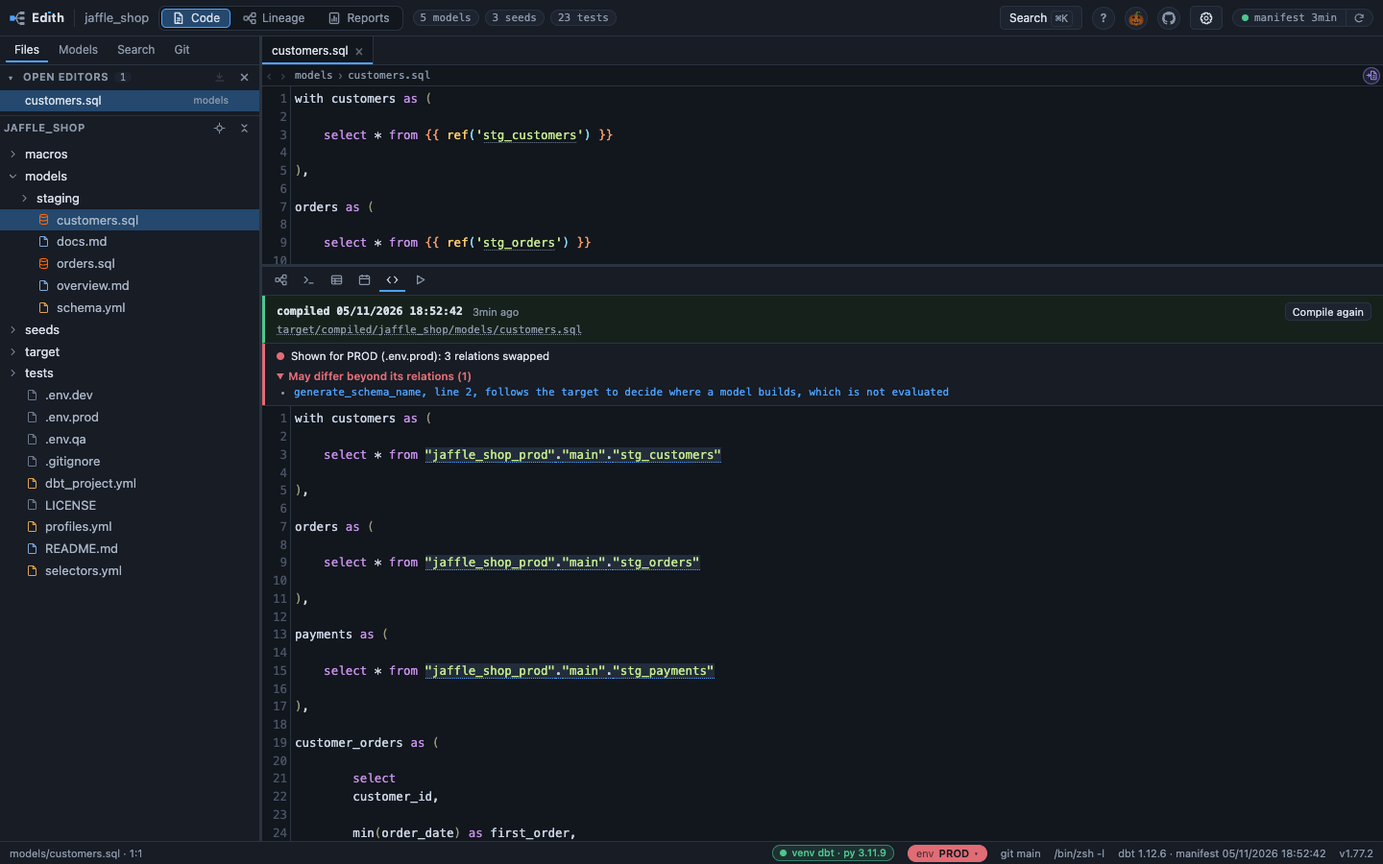
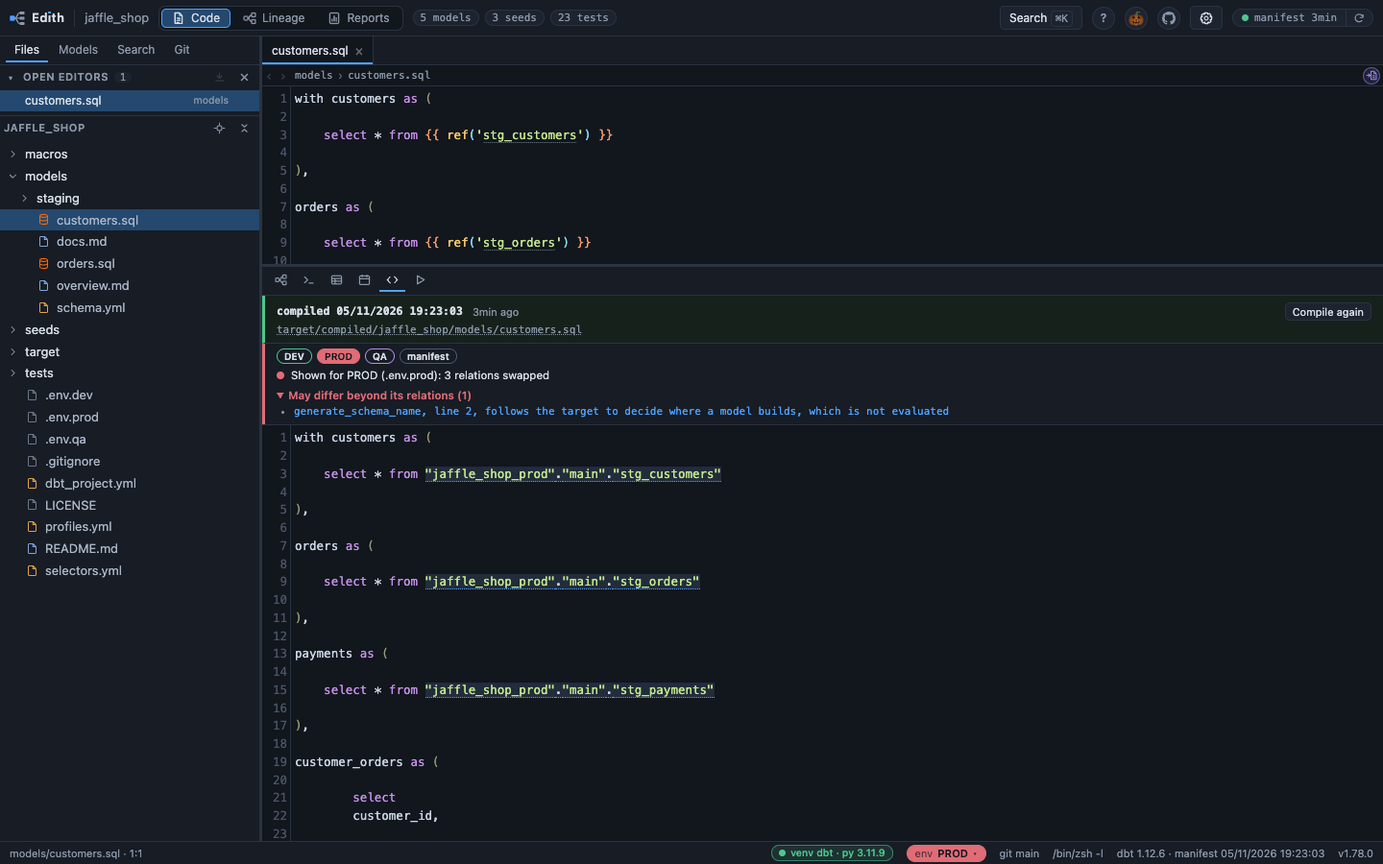
Offer every environment on the Compiled tab (#163)
The top of the Compiled and Run tabs now offers every environment as a
button, with a file picked or with none, and a click sets the one shared
choice the status bar and the Catalog already follow.
[0147](docs/decisions/0147-the-compiled-and-run-tabs-offer-every-environment.md)
records it and amends
[0139](docs/decisions/0139-compiled-sql-is-shown-per-environment-by-swapping-its-relations.md)
and
[0142](docs/decisions/0142-the-status-bars-env-pill-opens-the-environment-menu.md).

**What was missing.** The tabs show a model's SQL for the environment
picked in the status bar, but the line that names it only appeared once
a file other than the manifest's own was picked. With none picked (the
manifest, or `my compile` on a sandbox manifest) the tab said nothing
about environments, so nothing on it told a person it could switch.
Comparing the same SQL under QA, UAT and STG meant going to the pill for
each, and back.

## What changes for someone using it

- **A row of buttons at the top of both tabs**, one per environment
  shown, in the order of the menu and the settings, and the manifest's
  own choice (`manifest`, or `my compile`) last. It is drawn with a file
  picked and with none, and only when there is a file to pick: a project
  whose config reads an env var but has no `.env` file, or hides them
  all, sees what it saw before.
- **A click sets the shared choice**: the status bar's pill, the
  Catalog's resolved column, the Builds dots and the other tab follow.
[…]

diff --git a/web/app.js b/web/app.js
@@ -35,6 +35,7 @@ const S = {
   artifactInfo: { compiled: null, run: null },  // the last answer of each, so another environment repaints without a request
   envs: null,                 // payload of /api/envs
   env: '',                    // this tab's chosen .env file, '' for the manifest as parsed
+  artifactRow: '',            // envRowKey() as the Compiled or Run row was last drawn
   node: null,                 // catalog: node currently displayed
   catTab: 'preview',          // catalog: preview | columns
   graphMode: 'model',         // lineage canvas: model | column | select
@@ -8541,8 +8542,9 @@ async function loadArtifact(kind, id) {
 }
 
 /* The Compiled or Run pane from the last answer, as it stands: the file as dbt
-   left it, or, with an environment picked in the status bar, the same SQL with
-   its relations swapped for that file's (0139). Repainted from here when the
+   left it, or, with an environment picked, the same SQL with its relations
+   swapped for that file's (0139). The environments are offered on the pane
+   itself whenever there are any (0147). Repainted from here when the
    environment changes, with no request. */
 function paintArtifact(kind, keepScroll) {
   const held = S.artifactInfo[kind];
@@ -8594,8 +8596,14 @@ function paintArtifact(kind, keepScroll) {
   head.append(bar);
 
   const content = artifactContent(info);
-  const shown = envSql(content, info.relations || [], S.env, (S.meta && S.meta.sandbox) || '');
-  if (S.env) head.append(artifactEnvBar(shown, info.env_reads));
+  const env = activeEnv();
+  const shown = envSql(content, info.relations || [], env, (S.meta && S.meta.sandbox) || '');
+  // Also with none picked: the row is how a person who has not found the status
+  // bar's pill learns the tab can switch (0147).
+  if (envRowShown()) head.append(artifactEnvBar(shown, info.env_reads, env));
+  // What the row was last drawn from, so a reload of the list repaints only for
+  // a change this row has not seen, and keeps the focus a click just restored.
+  S.artifactRow = envRowKey();
 
   // Read while the editor is still attached: emptying the body detaches it, and
   // a detached editor reports no scroll. setValue then scrolls to the top, which
@@ -8619,14 +8627,32 @@ function paintArtifact(kind, keepScroll) {
   return true;
 }
 
-/* The line under the bar naming the environment the SQL is shown for, and the
-   places it may differ beyond its relations. A macro's finding opens the macro
-   at that line, as Cmd+K opens one. */
-function artifactEnvBar(shown, envReads) {
-  const words = artifactEnvWords(shown, envDisplayName(S.env), S.env, envReads);
+/* The environments, one button each, and under them the line naming the one the
+   SQL is shown for and the places it may differ beyond its relations. A button
+   sets the one shared choice, so the status bar, the Catalog and the Builds dots
+   follow (0147). A macro's finding opens the macro at that line, as Cmd+K opens
+   one. */
+function artifactEnvBar(shown, envReads, env) {
   const box = document.createElement('div');
   box.className = 'env-bar';
-  box.dataset.tone = envTone(envDisplayName(S.env));
+  box.dataset.tone = env ? envTone(envDisplayName(env)) : 'manifest';
+  const chips = document.createElement('div');
+  chips.className = 'env-chips';
+  envChoices().forEach((c) => {
+    const b = document.createElement('button');
+    b.type = 'button';
+    b.className = 'envchip' + (c.current ? ' on' : '');
+    b.dataset.tone = c.tone;
+    b.setAttribute('aria-pressed', String(c.current));
+    b.title = c.file ? (c.title || c.sub) : `${c.sub}: ${c.title}`;
+    b.textContent = c.label;
+    b.addEventListener('click', () => { if (!c.current) selectEnv(c.file); });
+    chips.append(b);
+  });
+  box.append(chips);
+  const words = env
+    ? artifactEnvWords(shown, envDisplayName(env), env, envReads)
+    : { head: artifactOwnWords((S.meta && S.meta.sandbox) || ''), findings: [] };
   const line = document.createElement('div');
   line.className = 'env-line';
   line.append(Object.assign(document.createElement('span'), { className: 'envdot' }), words.head);
@@ -12752,10 +12778,12 @@ async function loadEnvs() {
   }
   paintEnvSelect();
   if (S.node) renderCatalog(S.node);
+  // The row on a Compiled or Run tab lists the files shown, which the settings
+  // may have just renamed or hidden (0147). Only then: the settings' Project
+  // section reloads on every opening, and a repaint would drop the text selected
+  // in the SQL and a find's cursor for nothing.
+  if (envRowKey() !== S.artifactRow) repaintArtifacts();
 }
-
-/* True when switching environment can change something on screen. */
-const envsInUse = () => !!(S.envs && S.envs.referenced.length);
 
 function paintEnvSelect() {
   const pill = $('#status-env');
@@ -12782,14 +12810,27 @@ function fillEnvPill(el, prefix) {
   el.title = `${now} Click to pick an environment.`;
 }
 
+/* The visible Compiled or Run tab again from the answer it holds, with no request. */
+function repaintArtifacts() {
+  ['compiled', 'run'].forEach((kind) => { if (!$('#dock-' + kind).classList.contains('hidden')) paintArtifact(kind, true); });
+}
+
 function selectEnv(file) {
+  // A click on a chip of the Compiled or Run pane rebuilds the row it was made
+  // in, so the keyboard would lose its place without this (0147).
+  const held = document.activeElement && document.activeElement.closest
+    ? document.activeElement.closest('#compiled-head, #run-head') : null;
+  const heldIn = held && document.activeElement.classList.contains('envchip') ? held.id : '';
   S.env = file;
   paintEnvSelect();
   if (S.node) renderCatalog(S.node);
   // The dots follow the environment, painted over the canvas as it stands (0117).
   paintLineageBuilds();
-  // So does the SQL of the visible Compiled or Run tab, from the answer it holds (0139).
-  ['compiled', 'run'].forEach((kind) => { if (!$('#dock-' + kind).classList.contains('hidden')) paintArtifact(kind, true); });
+  // So does the SQL of the visible Compiled or Run tab, from the answer it holds
+  // (0139), and the buttons on it (0147).
+  repaintArtifacts();
+  const back = heldIn && $('#' + heldIn + ' .envchip.on');
+  if (back) back.focus();
   // Remembered as the starting point for the next tab; failure is harmless.
   api.send('/api/envs/select', 'POST', { file: file || null }).catch(() => {});
 }
@@ -13444,6 +13485,36 @@ function artifactEnvWords(result, envName, file, envReads) {
   };
 }
 
+/* The line under the buttons when no .env file is picked: nothing is swapped,
+   so it says whose placement the SQL carries. On a sandbox manifest that is the
+   developer's own compile, named as the menu names it (0143). */
+function artifactOwnWords(sandbox) {
+  return sandbox
+    ? `Shown as dbt wrote it, into ${sandbox}`
+    : 'Shown as dbt compiled it for the manifest\'s target';
+}
+
+/* True when switching environment can change something on screen. */
+function envsInUse() { return !!(S.envs && S.envs.referenced.length); }
+
+/* The choice in effect: a stored one outlives the environments in use (the list
+   failed to load, or no config reads an env var any more), and then nothing
+   could name the file, so the tab, the Catalog's location and the Builds dots
+   all fall back to the manifest's own. */
+function activeEnv() { return envsInUse() ? S.env : ''; }
+
+/* The row of buttons on the Compiled and Run tabs is drawn when there is a file
+   to pick: a project that reads env_var with a default and has no .env file, or
+   hides them all, has nothing to offer (0147). */
+function envRowShown() { return envsInUse() && S.envs.files.some((f) => !f.hidden); }
+
+/* What the row of buttons and the swap are drawn from, to tell a reload that
+   changed them from one that did not. */
+function envRowKey() {
+  return JSON.stringify([!!S.envs, envsInUse(), envRowShown(), activeEnv(),
+    S.envs ? S.envs.files.map((f) => [f.file, f.name, !!f.hidden, !!f.target_mismatch, f.target]) : []]);
+}
+
 /* The last build of each model per environment is read on a click from the
    tables of the dbt_artifacts package (0117). The pure part runs from here to
    catalogLocation, which web/tests/builds.js slices with the location code
@@ -13989,7 +14060,8 @@ function jobBuildVerdicts(job, got, clock, staleDays, now, worst) {
 function catalogLocation(body, n) {
   // A chosen file this node was not resolved against (none discovered at the
   // time, or the file was removed) quietly falls back to manifest mode.
-  const file = S.env && n.location && n.location.envs && n.location.envs[S.env] ? S.env : '';
+  const chosen = activeEnv();
+  const file = chosen && n.location && n.location.envs && n.location.envs[chosen] ? chosen : '';
   const envName = file ? envDisplayName(file) : '';
   const rows = locationRows(n.location, file);
   if (!rows.length) return;
@@ -15041,7 +15113,7 @@ function repaintBuilds() {
 /* What the canvas paints for the environment this tab picked, or nothing. */
 function buildsSpec() {
   if (!S.builds || !(S.features && S.features.snowflake)) return null;
-  return buildsDots(S.builds, S.env, buildsStaleDays(), buildsEnvName(S.env), Date.now());
+  return buildsDots(S.builds, activeEnv(), buildsStaleDays(), buildsEnvName(activeEnv()), Date.now());
 }
 
 function paintLineageBuilds() {

diff --git a/web/tests/compiledenv.js b/web/tests/compiledenv.js
@@ -181,6 +181,48 @@ check('a placing macro that reads the target through another says which, with no
     macro: { file: 'macros/g.sql', name: 'generate_schema_name', line: 1 } });
 check('the list is introduced once', reads.differ, 'May differ beyond its relations (6)');
 
+print('\n--- no file picked ---');
+check('a sandbox manifest says where the SQL was written', artifactOwnWords('dev_db.dbt_someone'),
+  'Shown as dbt wrote it, into dev_db.dbt_someone');
+check('a manifest with no sandbox says whose target it is', artifactOwnWords(''),
+  'Shown as dbt compiled it for the manifest\'s target');
+
+print('\n--- the row of buttons ---');
+// S is the page's state; only what the row's helpers read is here.
+var S = { envs: null, env: '' };
+function envList(files, referenced) {
+  return { referenced: referenced === undefined ? [{ var: 'DBT_DB', nodes: 3 }] : referenced,
+    files: files.map(function (f) { return { file: f[0], name: f[1], hidden: !!f[2], target_mismatch: false, target: '' }; }) };
+}
+var listed = [['.env.qa', 'QA'], ['.env.uat', 'UAT']];
+S.envs = envList(listed);
+check('a file to pick draws the row', envRowShown(), true);
+var keyed = envRowKey();
+S.envs = envList(listed);
+check('the same list again keeps the key', envRowKey(), keyed);
+S.envs = envList([['.env.qa', 'Quality'], ['.env.uat', 'UAT']]);
+check('a rename changes it', envRowKey() !== keyed, true);
+S.envs = envList([['.env.qa', 'QA', true], ['.env.uat', 'UAT']]);
+check('so does hiding a file', envRowKey() !== keyed, true);
+S.envs = envList([['.env.qa', 'QA', true], ['.env.uat', 'UAT', true]]);
+check('every file hidden draws no row', envRowShown(), false);
+S.envs = envList([]);
+check('and no file at all draws none', envRowShown(), false);
+S.envs = envList(listed, []);
+check('nor does a project no env var is read by', envRowShown(), false);
+S.envs = null;
+check('nor a list that failed to load', envRowShown(), false);
+
+print('\n--- a stored choice that the list no longer backs ---');
+S.env = '.env.qa';
+S.envs = envList(listed);
+check('is the choice while environments are in use', activeEnv(), '.env.qa');
+S.envs = null;
+check('falls back to the manifest when the list failed to load', activeEnv(), '');
+S.envs = envList(listed, []);
+check('and when no config reads an env var any more', activeEnv(), '');
+S.env = '';
+
 print('\n--- a file dbt wrote on Windows ---');
 var crlf = artifactContent({ content: 'select 1\r\nfrom x\r\n\r\nfrom raw.crm.orders o\r\n', truncated: false });
 check('breaks are one character each', crlf, 'select 1\nfrom x\n\nfrom raw.crm.orders o\n');

diff --git a/web/app.css b/web/app.css
@@ -77,6 +77,19 @@ kbd {
 .envpill-k { font-weight: 400; opacity: .7; }
 .envpill-caret { font-size: 9px; opacity: .75; }
 .envpill.sm { font-size: 10px; line-height: 14px; padding: 0 7px; margin-left: 6px; vertical-align: 1px; letter-spacing: 0; }
+/* The environments on the Compiled and Run tabs (0147): outlined when off,
+   filled like the pill when it is the one in use. */
+.env-chips { display: flex; flex-wrap: wrap; gap: 5px; margin-bottom: 4px; }
+.envchip {
+  font: 600 10px/14px var(--ui); color: var(--fg); background: transparent;
+  border: 1px solid var(--tone); border-radius: 9px; padding: 0 7px; cursor: pointer;
+}
+.envchip.on { color: #10151c; background: var(--tone); }
+.envchip[data-tone=manifest] { border-color: #4a5870; }
+.envchip[data-tone=manifest].on { color: #fff; background: #4a5870; border-color: #6f7f93; }
+.envchip:hover { filter: brightness(1.15); }
+.envchip.on { cursor: default; filter: none; }
+.envchip:focus-visible { outline: 2px solid var(--accent); outline-offset: 1px; }
 .envmenu {
   position: fixed; z-index: 65; min-width: 230px; max-width: 380px; padding: 4px;
   background: var(--bg-2); border: 1px solid #3a475a; border-radius: 6px;

diff --git a/docs/decisions/0147-the-compiled-and-run-tabs-offer-every-environment.md b/docs/decisions/0147-the-compiled-and-run-tabs-offer-every-environment.md
@@ -1,0 +1,52 @@
+# 0147. The Compiled and Run tabs offer every environment
+
+Date: 2026-11-05 · Status: accepted · Amends 0139, 0142
+
+**Trigger:** read before changing what the top of the Compiled or Run tab
+shows when environments exist, how an environment is picked from it, or what it
+says with no `.env` file picked.
+
+## Context
+
+The tabs show a model's SQL for the environment picked in the status bar (0139,
+0142). With none picked, which is the manifest, or `my compile` on a sandbox
+manifest (0143), the tab said nothing about environments, so nothing on it told
+a person that it could switch. Comparing QA, UAT and STG on one SQL meant going
+to the status bar's pill for each, and back. 0139 had rejected a picker of its
+own on the tab because it put two environments on screen, the tab's and the
+Catalog's. A picker that sets the one shared choice does not.
+
+## Decision
+
+- **The tabs offer every environment as a button**, on a row at the top, whenever
+  there is a file to pick, which is when the project's config reads an env var
+  and at least one `.env` file is shown: the files shown, in the order of the
+  menu and the settings, and the manifest's own choice (`manifest`, or `my
+  compile`) last. It is drawn with a file picked and with none, and not at all
+  when there is nothing to pick, so a project with no `.env` file sees what it
+  saw before.
+- **A button sets the one shared choice**, as the menu does: the status bar's
+  pill, the Catalog's resolved column, the Builds dots and the other tab follow.
+  The button of the choice in use is filled in its colour and pressed; a click
+  on it does nothing. The keyboard keeps its place across the repaint.
+- **Under the row, one line says what is shown.** For a file it is the line
+  0139 has, `Shown for QA (.env.qa): 2 relations swapped`, with the findings
+  folded under it. With none picked it says whose placement the SQL carries
+  (`Shown as dbt wrote it, into <sandbox>`, or `Shown as dbt compiled it for the
+  manifest's target`), and has no findings, since nothing is swapped.
+
+## Rejected
+
+- **A pill and a menu on the tab**: two clicks for a gesture repeated while
+  comparing, where one button per environment is one click and shows all that
+  can be picked.
+- **A choice local to the tab**: 0139's reason, two environments on screen and
+  the Catalog saying another.
+- **A row only when a file is picked**: the case where a person most needs to
+  learn that the tab can switch.
+
+## Consequences
+
+The status bar's pill and its menu stay as they are (0142). A script that waits
+on the `Shown for` line still finds it with a file picked; with none, the row
+of buttons is there and the line starts `Shown as`.

diff --git a/AGENTS.md b/AGENTS.md
@@ -262,7 +262,7 @@ frontend fix does not exist in a release binary until it is rebuilt (see 0005).
 | print a location derived from a `.env` file on the command line or over MCP, or change the card's per-file lines | [0113](docs/decisions/0113-the-card-resolves-a-location-per-env-file.md), [0012](docs/decisions/0012-secrets-and-boundaries.md), [0090](docs/decisions/0090-a-credential-is-hidden-by-its-value-as-well-as-its-name.md) |
 | change the agent skill or its MCP variant, what `--skill` prints, or let the binary write anything for an agent client | [0114](docs/decisions/0114-a-skill-is-shipped-and-printed-never-installed.md), [0136](docs/decisions/0136-a-client-that-defers-tools-gets-its-own-printed-skill.md), [0110](docs/decisions/0110-an-agent-may-ask-over-mcp-through-one-tool.md) |
 | write SQL for the user to run, change what a clone copies or where it lands, or read anything else out of the profile | [0058](docs/decisions/0058-a-model-is-cloned-into-your-schema-by-statements-you-run.md) |
-| change what the Compiled or Run tab shows for an environment, what `/api/compiled` carries, or what the page says the SQL may differ in | [0139](docs/decisions/0139-compiled-sql-is-shown-per-environment-by-swapping-its-relations.md), [0143](docs/decisions/0143-a-sandbox-manifests-relations-are-swapped-where-the-file-places-them.md), [0113](docs/decisions/0113-the-card-resolves-a-location-per-env-file.md), [0058](docs/decisions/0058-a-model-is-cloned-into-your-schema-by-statements-you-run.md) |
+| change what the Compiled or Run tab shows for an environment, what `/api/compiled` carries, or what the page says the SQL may differ in | [0139](docs/decisions/0139-compiled-sql-is-shown-per-environment-by-swapping-its-relations.md), [0143](docs/decisions/0143-a-sandbox-manifests-relations-are-swapped-where-the-file-places-them.md), [0147](docs/decisions/0147-the-compiled-and-run-tabs-offer-every-environment.md), [0113](docs/decisions/0113-the-card-resolves-a-location-per-env-file.md), [0058](docs/decisions/0058-a-model-is-cloned-into-your-schema-by-statements-you-run.md) |
 | set this up for someone, rather than change it | [README, Getting started](README.md#getting-started) |
 | get, build or install the Windows `.exe`, or touch `scripts/build_windows.sh` | [docs/windows.md](docs/windows.md) |
 | change what the `.exe`'s properties say, or what a Windows build does without `windres` | [0093](docs/decisions/0093-the-exe-names-its-publisher-when-windres-is-there.md) |

diff --git a/docs/features/catalog.md b/docs/features/catalog.md
@@ -143,7 +143,9 @@ The `env` pill in the status bar says which of the project's `.env` files the
 DEV, QA or UAT without running dbt. Built stays tied to the manifest's own
 target. The file is picked in the pill's menu, the same menu in the header of
 the resolved column, or in the Project section of the settings, which the
-menu's Manage environments... opens. With no file picked the choice is
+menu's Manage environments... opens, or from the row of buttons at the top of
+the Compiled and Run tabs, which sets the same choice, so the status bar and the
+Catalog follow it. With no file picked the choice is
 `manifest`; on a manifest built into a developer sandbox it is named `my
 compile`, with the sandbox beside it, since it is the developer's own compile.
 The pill takes a colour per environment family (DEV, CI, QA, STG, UAT, PROD)
@@ -228,7 +230,7 @@ for the manifest too.
 
 ![The Compiled tab for customers shown for PROD, its three relations swapped and a note on what may differ](../shots/catalog-compiled.png)
 
-With an environment picked in the status bar, both tabs show the same SQL as it
+With an environment picked, both tabs show the same SQL as it
 would read under that `.env` file, to paste into Snowsight without compiling
 again. Each relation the SQL holds, the model's parents and, through an
 ephemeral one, that one's parents, is replaced by the relation the Catalog's
@@ -238,7 +240,13 @@ and its tooltip gives the name it had in the file dbt wrote. With none picked,
 the tabs show the file as dbt wrote it (on a sandbox manifest, that choice is
 named `my compile`, with the sandbox).
 
-A line under the bar names the environment and counts what it did: `Shown for
+A row of buttons at the top of both tabs offers every environment, and the
+manifest's own choice last, with or without one picked; a click sets the
+choice the status bar's pill shows and the Catalog follows. With none picked, a
+line under it says whose placement the SQL carries, such as `Shown as dbt
+compiled it for the manifest's target`.
+
+A line under the buttons names the environment and counts what it did: `Shown for
 QA (.env.qa): 12 relations swapped, 1 kept as compiled`. A relation the file
 cannot place stays as dbt compiled it, in amber, and its tooltip says why: a
 variable the file does not define, a placeholder, a database or schema left to

diff --git a/docs/decisions/README.md b/docs/decisions/README.md
@@ -150,6 +150,7 @@ it; these files say why it is built this way, for whoever changes it next.
 | [0144](0144-the-pictures-also-illustrate-the-feature-pages-and-are-retaken-by-name.md) | The pictures also illustrate the feature pages, and are retaken by name | adding a picture to a page under `docs/features/`, retaking one, or changing what `scripts/take_shots.py` takes or copies |
 | [0145](0145-a-column-collin-traced-in-part-is-marked-on-the-canvas.md) | A column collin traced in part is marked on the canvas | changing what a column box or its card says about a name collin gave up on, which names are marked, or how the card opens the SQL at them |
 | [0146](0146-a-column-is-compared-with-another-project-by-its-source-columns.md) | A column is compared with another project's by its source columns | changing what `--against` prints, what makes two source columns the same, how the other project's column is searched for, or offering the comparison over MCP |
+| [0147](0147-the-compiled-and-run-tabs-offer-every-environment.md) | The Compiled and Run tabs offer every environment | changing what the top of the Compiled or Run tab offers when environments exist, how an environment is picked there, or what it says with no file picked |
 
 ## Keeping these honest
 

diff --git a/docs/decisions/0139-compiled-sql-is-shown-per-environment-by-swapping-its-relations.md b/docs/decisions/0139-compiled-sql-is-shown-per-environment-by-swapping-its-relations.md
@@ -65,6 +65,9 @@ warehouse, and a project's `generate_*_name` that follows the target.
   dbt (0002), and it would be a second dbt to keep right (0009).
 - **A picker of its own on the tab**: two environments on screen at once, and
   the Catalog saying another.
+  *Amended by [0147](0147-the-compiled-and-run-tabs-offer-every-environment.md): the tab offers the
+  environments as buttons that set the one shared choice, so there is still
+  only one environment on screen and the Catalog says the same.*
 - **Refusing the whole view** when any relation cannot be placed: most of the
   SQL is still right, and the amber marks say which part is not.
 - **A fixed banner** that the SQL may differ: it is always there, so it is read

diff --git a/docs/state.md b/docs/state.md
@@ -1966,7 +1966,8 @@ that measures it. Reduced motion shows the name at once. Checked with
 `web/tests/selpanel.js` and `web/tests/reports.js`.
 
 The Compiled and Run SQL per environment (0139, 1.73.0). The two tabs follow
-the environment picked in the status bar: each relation the SQL reads or builds
+the environment picked in the status bar or on the tab's row of buttons (0147):
+each relation the SQL reads or builds
 is swapped, as text, for the one that `.env` file resolves, in one pass and
 longest name first, `__dbt_tmp` and `__dbt_backup` of a run included. A line
 under the freshness bar says how many were swapped, and a swapped relation

diff --git a/CHANGELOG.md b/CHANGELOG.md
@@ -13,6 +13,12 @@ points at the decision behind it. A version's date is the day its bump merged,
 which tags and releases it with its section here as the notes (0045): the
 newest dated heading has to be the version `Cargo.toml` names.
 
+## 1.78.0 - 2026-11-05
+
+- Offer every environment as a button at the top of the Compiled and Run tabs
+  when a file can be picked, also with none picked, so one click shows the SQL
+  for QA, UAT or STG and moves the status bar and the Catalog with it (0147).
+
 ## 1.77.2 - 2026-11-05
 
 - Draw Edith's mark beside her name in the top bar, a square on her i, and set

diff --git a/docs/decisions/0142-the-status-bars-env-pill-opens-the-environment-menu.md b/docs/decisions/0142-the-status-bars-env-pill-opens-the-environment-menu.md
@@ -35,6 +35,8 @@ hiding environments stays in one place, the settings.
   what the choice changes.
 - **A picker on the Compiled tab**: 0139 rejected it, two environments on
   screen and the Catalog saying another.
+  *Amended by [0147](0147-the-compiled-and-run-tabs-offer-every-environment.md): a row of buttons on the tab
+  sets the same choice the pill does, so the objection no longer applies.*
 
 ## Consequences
 
